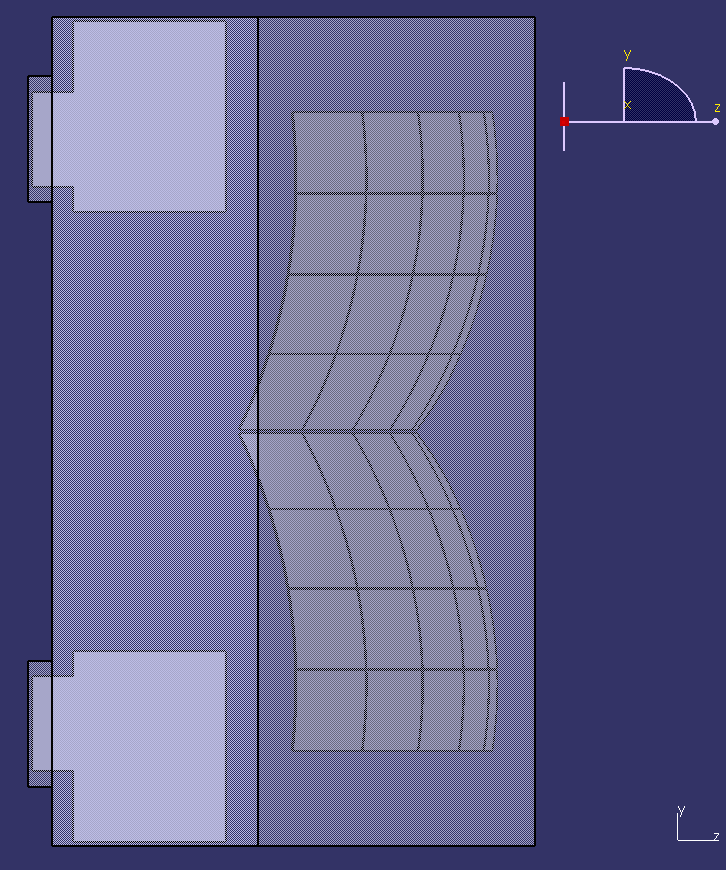
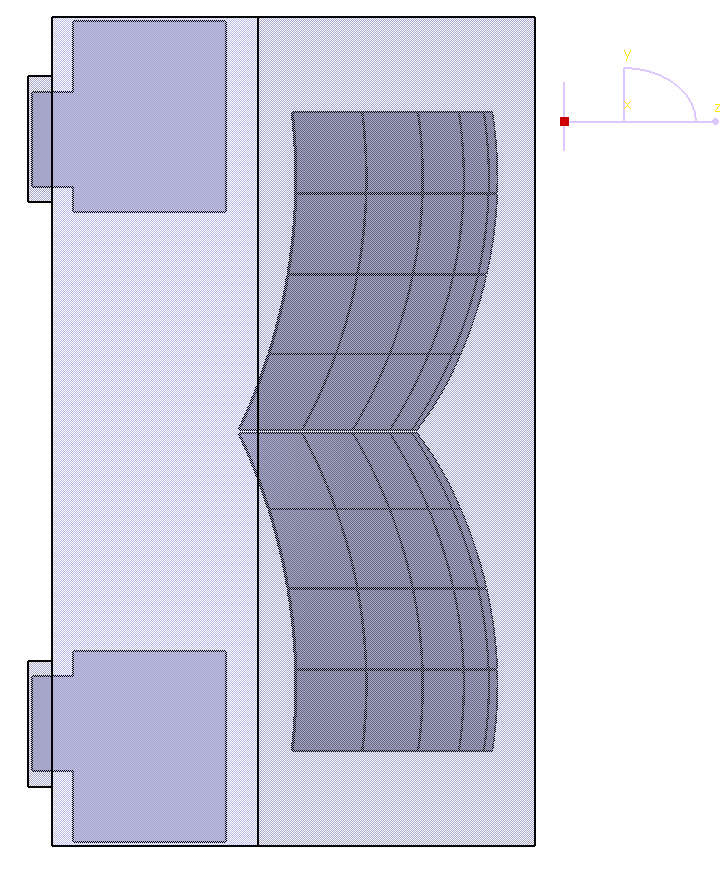
Get rid of dark background in CATIA-figures. Update BREP-CSG-Polygonal comparison. Update geometry section in general.

diff --git a/Disser/tex/23_geometry/2_1_CADvsROOT.tex b/Disser/tex/23_geometry/2_1_CADvsROOT.tex
@@ -12,8 +12,11 @@
 \subsection{Граничное представление BREP}\label{sec:geoCAD}
 
 Граничное представление (Boundary representation, BREP) --- наиболее распространённый способ точного описания геометрии в ЭВМ, используемый геометрическими ядрами всех современных систем автоматизированного проектирования (САПР).
-% Похоже, это первое явление САПР народу в тексте (не во всяких списках типа цели, новизна и проч.)
+% Похоже, это первое явление САПР и CATIA народу в тексте (не во всяких списках типа цели, новизна и проч.)
+Во многих физических лабораториях, включая CERN, GSI и ОИЯИ, в качестве основной САПР используется система CATIA~v5 (Computer-Aided Three-dimensional Interactive Application), разрабатываемая французской фирмой Dassault Systemes.
+
 \textbf{Далее представление геометрической информации в САПР мы будем называть просто BREP, хотя строго говоря это не совсем верно.}
+
 % Ссылка на Голованова должна появиться где-то
 В BREP есть два типа понятий --- геометрические (<<точка>>, <<кривая>>, <<поверхность>>) и топологические (<<вершина>>, <<ребро>>, <<грань>>). <<Точка>> --- это тройка координат в некоторой системе координат. <<Кривая>> --- это уравнение, задающее множество точек, принадлежащих данной кривой. Кривую удобно описать с помощью параметрического уравнения от одной переменной. <<Поверхность>> --- это уравнение, задающее множество точек, принадлежащих данной поверхности. Соответственно, поверхность удобно описать с помощью параметрического уравнения от двух переменных. Топологические сущности задаются на базе геометрических. <<Вершина>> лежит в некоторой геометрической точке. <<Ребро>> лежит на некоторой геометрической кривой и ограничено двумя вершинами. Очевидно, что эти вершины должны принадлежать кривой, то есть и соответствующие геометрические точки должны принадлежать кривой. <<Грань>> лежит на некоторой поверхности и ограничена замкнутым циклом из рёбер. Также очевидно, что эти рёбра должны принадлежать поверхности, как и кривые, на которых они лежат, как и вершины и точки, ограничивающие эти рёбра. Замкнутая оболочка из граней с указанием внешних сторон этих граней ограничивает некоторую область пространства, называемую <<телом>>.
 
@@ -39,7 +42,8 @@
 
 Стоит, однако, отметить, что человек, создающий геометрическую модель в САПР, хотя и может выполнять построения в соответствии с базовыми принципами BREP, чаще всего применяет интуитивно понятные формообразования. Из последовательности этих формообразований система точно формирует BREP модель в памяти ЭВМ, которая также необходима для получения триангулированной геометрии для визуализации на дисплее ЭВМ~(\ref{sec:secGeoPoly}). Есть 4 базовых формообразования и 4 им обратных (с вычитанием) --- <<выдавливание>>, <<вращение>>, <<протягивание>> и <<тело по сечениям>>. Многие другие формообразования, такие как фаски и скругления, разрезы, отверстия, внутри на самом деле являются лишь вариациями перечисленных. Последовательность формообразований, выполненных пользователем для получения итоговой формы, сохраняется в виде дерева построения модели, напоминающего историю построения, но позволяющего навигацию и редактирование. Дерево часто доступно пользователю в основном рабочем окне интерфейса САПР. Однако бывают случаи, когда история построения теряется, например при передаче модели из одной САПР в другую. Таким образом, в результате работы инженера получается модель, описанная с помощью BREP, и во многих случаях имеющая также и дерево построения.
 
-% \todo Пояснить, почему речь о CATIA
+% \todo Пояснить, почему речь о CATIA.
+% Ввёл чуть выше - в начале главы.
 
 В инженерной практике принято проектировать и соответственно строить 3d-модели, объединяя в сборки детали и другие сборки. Отсюда вытекает, что во многих САПР, в том числе в CATIA~v5, существуют стандартные объекты, обозначающие детали и сборки. Например в САПР CATIA~v5 существует отдельный тип документа CATPart для детали и отдельный тип документа CATProduct для сборки. Внутри документа типа CATPart есть минимальный набор обязательных элементов --- 3 стандартные взаимноперпендикулярные плоскости в начале системы координат детали и главное тело детали, по умолчанию называемое PartBody. В документе типа CATProduct присутствует возможность добавлять в качестве дочерних компонентов либо документы CATPart либо другие документы CATProduct. В~\ref{sec:secBuilder} описывается, как соотносятся перечисленные сущности CATIA~v5 с понятиями геометрической подсистемы GEANT/ROOT.
 
@@ -47,6 +51,7 @@
 
 %\todo
 %Описать только нормальное применение BREP, то есть для замкнутых солидов.
+BREP разрабатывался как наиболее общий метод представления геометрии в ЭВМ и не ограничивается описанием твёрдых тел. Отдельные поверхности, например, также являются корректными сущностями.
 
 %Более того, возможна также некоторая корректировка подходов САПР к геометрическому моделированию с целью повышения совместимости с пакетами проведения частиц. \textbf{Один из возможных подходов --- реализация полигонального (см. секцию~\ref{sec:secGeoPoly}) твердотельного моделирования со строгим ограничением замкнутости оболочек, представляющих границы тела.} Однако следует учитывать следующие факты, мешающие движению в данном направлении. Во-первых, САПР --- это в большинстве своём коммерческое программное обеспечение с закрытым исходным кодом, а геометрическое ядро САПР --- базовая составляющая, которую отлаживают десятилетиями. Внесение изменений в столь важную компоненту коммерческого продукта, вероятно, будет проблемным даже при наличии интереса со стороны фирмы-разработчика. Во-вторых, в обеих сферах накоплен огромный массив моделей, применяемых для поддержки изделий на всех этапах жизненного цикла, даже после окончания процесса проектирования. GEANT/ROOT модели могут применяться для выполнения моделирования даже после того, как физическая экспериментальная установка уже собрана, а иногда даже и уже разобрана.
 
@@ -66,6 +71,8 @@
 Метод конечных элементов получил своё название от способа разбиения расчётной области на элементарные блоки --- конечные элементы (КЭ). Строго говоря, КЭ --- это не только геометрическая форма, но и модель аппроксимации решения внутри области, ограниченной этой формой. Существует огромное множество типов КЭ, причём существуют элементы имеющие одинаковую геометрию, но разные математические модели. Расчётная область может быть разбита на элементы различных типов. Исходя из условий решаемой задачи инженер-расчётчик выбирает, какими элементами разбивать расчётную область, а также, обычно, задаёт какие-либо указания модулю разбиения геометрии на сетку в расчётном программном обеспечении. В простом случае расчётной областью является пространство заполненное материалом, т.е. сама деталь, а конечным элементом --- тетраэдр. Модель, в которой деталь представлена множеством КЭ, соответственно называют КЭ-моделью.
 % Вырезан кусок... Ушёл в обмен геометриями
 
+% \todo Netgen
+
 % ================================================================================================================
 %   ____ ____   ____                                     _              
 %  / ___/ ___| / ___|     __ _  ___  ___  _ __ ___   ___| |_ _ __ _   _ 
@@ -80,7 +87,6 @@
 Конструктивная твердотельная геометрия (Constructive Solid Geometry, CSG) --- один из способов описания геометрии в ЭВМ, в котором твёрдое тело (``solid'') представляет собой примитив либо результат Булевой операции над другими твёрдыми телами.
 
 Изначально CSG использовался как основной способ представления геометрии в САПР, но по мере развития последних от CSG перешли к BREP. При этом, всё же, во многих САПР осталась возможность создавать CSG геометрию. CSG до сих пор активно применяется в некоторых узкоспециализированных областях --- например для описания экспериментальных установок для выполнения моделирования взаимодействия частиц с материалом (см.~\ref{sec:secGeoROOT}), для описания ячейки периодичности композитных материалов и др.
-% \todo Netgen
 
 В качестве строительных блоков в CSG используются примитивы из списка реализованных в системе. Список примитивов обычно включает в себя как относительно простые примитивы типа параллелипипеда (box), сегмента цилиндра (tubs), сегмента конуса (cons), так и достаточно сложные, типа эллипсоида, параболоида, скрученных (twisted) примитивов.
 Форма может быть описана либо как примитив, либо как результат Булевой операции над примитивами или другими Булевыми операциями.
@@ -130,7 +136,7 @@
 
 Большинство приложений трёхмерной графики, в том числе САПР, при построении объёмных сцен придерживаются определенной последовательности действий, в совокупности составляющей так называемый ЗD-конвейер. В качестве входных данных 3D-конвейер принимает массив треугольников, а итогом работы ЗD-конвейера является отрисовка (рендеринг) результирующего изображения на дисплее компьютера. Графический адаптер реализует аппаратное ускорение 3D-конвейера.
 
-\todo Чем детальней (чем больше полиногов), тем сложнее крутить геомерию. И фастрад (geant) тоже дольше будет считать.
+Несмотря на то что графический адаптер оптимизирован для обработки треугольников, существует ограничение на размер модели, определяемой доступной памятью (как ЦПУ, так и ГПУ). Также объём геометрической модели определяет время её обработки, например, выполнения матричных преобразований при изменении ракурса камеры. Это определяет частоту обновления изображения на дисплее, падение которой ниже некоторого уровня (\todo скажем, 20) сильно усложняет работу. Аналогично, увеличение количества элементов в КЭ-модели приводит к увеличению времени расчётов МКЭ.
 
 %OpenGL (Open Graphics Library) --- спецификация, определяющая платформонезависимый (независимый от языка программирования) программный интерфейс для написания приложений, использующих двумерную и трёхмерную компьютерную графику. OpenGL де-факто является стандартом для всех трёхмерных приложений, его конвейер представлен на~\figref{fig:OGLpipeline}.
 
@@ -141,6 +147,44 @@
 %\end{figure}
 
 В промышленном геометрическом моделировании триангулированная геометрия применяется не только для визуализации. Например в стереолитографии, и вообще прототипировании, получил распространение формат обмена триангулированной геометрией STL, представляющий собой текстовый файл, в котором перечислены треугольники как группы по три вершины, а вершина задаётся тройкой координат (см. секцию~\ref{sec:secSTL}).
+
+% ================================================================================================================
+%   ____                                 _                 
+%  / ___|___  _ __ ___  _ __   __ _ _ __(_)___  ___  _ __  
+% | |   / _ \| '_ ` _ \| '_ \ / _` | '__| / __|/ _ \| '_ \ 
+% | |__| (_) | | | | | | |_) | (_| | |  | \__ \ (_) | | | |
+%  \____\___/|_| |_| |_| .__/ \__,_|_|  |_|___/\___/|_| |_|
+%                      |_|                                 
+% ================================================================================================================
+
+\section{Сравнение CSG, BREP и полигональных моделей}
+
+На~\figref{DiffGeoRepr} показана одна и та же геометрическая форма, описанная в ЭВМ с помощью различных методов представления геометрии.
+
+На верхнем левом рисунке показаны отдельные примитивы до выполнения Булевой операции. Можно видеть кривые пересечения примитивов, однако фактически уравнения этих кривых на пересечении конкретных уравнений поверхностей либо не рассчитаны вообще, либо расчитаны системой моделирования неявно исключительно для более красивой визуализации.
+На верхнем правом рисунке показано твёрдое тело после выполнения Булевой операции. Здесь рёбра на пересечениях уже явно рассчитаны.
+На нижнем левом рисунке показана модель после выполнения Булевой операции, триангулированная системой моделирования для визуализации, в таком режиме, когда показываются только рёбра треугольников. Отметим, что именно в такой форме, но с закрашенными треугольниками, все модели, независимо от внутреннего описания --- BREP, CSG или какое-либо другое --- визуализируются на дисплее ЭВМ. За счёт того, что угол между рёбрами треугольников, аппроксимирующими гладкое ребро исходного тела, очень мал, визуально создаётся ощущение плавных кривых.
+На нижнем правом рисунке показана КЭ-модель, полученная разбиением исходной BREP модели на тетраэдральные конечные элементы с помощью пакета Netgen~(\cite{}). Видны только треугольники на поверхности, но на самом деле на тетраэдры разбито всё твёрдое тело.
+Стоит отметить отличие триангуляции поверхностей для КЭ-модели и модели для визуализации. Это объясняется разными критериями алгоритма триангуляции в силу разных целей моделей.
+
+\begin{figure}[H]
+\begin{minipage}[b]{0.495\textwidth}
+\includegraphics[width=1.0\textwidth]{pictures/Separate_primitives.png}
+\end{minipage}
+\hspace{0.01\textwidth}
+\begin{minipage}[b]{0.495\textwidth}
+\includegraphics[width=1.0\textwidth]{pictures/BREP_2.png}
+\end{minipage}
+\begin{minipage}[b]{0.495\textwidth}
+\includegraphics[width=1.0\textwidth]{pictures/Triangles.png}
+\end{minipage}
+\hspace{0.01\textwidth}
+\begin{minipage}[b]{0.495\textwidth}
+\includegraphics[width=1.0\textwidth]{pictures/FEM_rough.png}
+\end{minipage}
+\caption{Одна и та же геометрическая форма, описанная различными представлениями.}
+\label{fig:DiffGeoRepr}
+\end{figure}
 
 % ================================================================================================================
 %   ____                 __                            _       
@@ -155,16 +199,20 @@
 
 Существует огромное множество форматов для обмена геометрией между различными программными продуктами. Следует различать геометрическое представление и формат, в котором данные записаны в файл. Существуют универсальные форматы, которые позволяют записывать в файл геометрию, представленную разными способами (например, BREP и триангулированная \todo пример), но в большинстве случаев один формат подразумевает один способ представления геометрии. Данные могут быть записаны в файл как в виде текста, так и в бинарном виде. Проприетарные форматы в большинстве своём не имеют открытой спецификации, поэтому файлы этого формата бинарные, создаются и читаются ограниченным списком программ, в который, в первую очередь, входят продукты от фирм, являющихся авторами этих форматов. Также иногда эти фирмы дают возможность купить лицензию на модуль импорта/экспорта того или иного формата для реализации его поддержки в стороннем ПО.
 
-Рассмотрим несколько популярных форматов для хранения и передачи геометрической информации, не подразумеваемой перевод между различными представлениями.
+Рассмотрим несколько популярных форматов для хранения и передачи геометрической информации, не подразумевающей перевод между различными представлениями.
 
 \subsubsection{STEP}\label{sec:secSTEP}
 
-В инженерной практике для обмена информацией об изделии, в том числе геометрическими моделями, наибольшее распространение получил независимый стандарт ISO-10303 STEP (STandard for Exchange of Product model data). В наши дни практически любая САПР имеет возможность импорта и экспорта STEP.
-Данный стандарт предоставляет широкие возможности по обмену геометрией, однако его особенностью является наличие большого количества инструментов для описания геометрии, представленной в виде BREP.
-% \todo расширить, пояснить
-% Убивается дерево
+В инженерной практике для обмена информацией об изделии, в том числе геометрическими моделями, наибольшее распространение получил независимый стандарт ISO-10303 STEP (STandard for Exchange of Product model data).
+%В наши дни практически любая САПР имеет возможность импорта и экспорта STEP.
+%Данный стандарт предоставляет широкие возможности по обмену информацией об изделии.
+Особенностью данного стандарта является наличие большого количества инструментов для описания BREP-геометрии. В то же время, следует отметить, что несмотря на то, что практические все современные САПР используют идентичные подходы к моделированию и имеют поддержку данного формата, STEP файлы не хранят дерево построения модели. По этой причине, даже если экспортировать STEP-файл из некоторой системы и импортировать обратно, то дерево построения, то есть последовательность формообразований, утеряется.
 
-Обменные файлы STEP являются текстовыми. С одной стороны, это значительно упрощает разработку модулей для их импорта и экспорта. С другой стороны, это приводит к тому, что размер таких файлов становится достаточно большим для крупных моделей, а следовательно и растёт их время обработки.
+Обменные файлы STEP являются текстовыми. С одной стороны, это значительно упрощает разработку модулей для их импорта и экспорта, но с другой стороны, это приводит к тому, что для крупных моделей размер STEP-файлов становится достаточно большим, а следовательно и растёт время их обработки.
+
+\subsubsection{IGES}\label{sec:secIGES}
+
+IGES (Initial Graphics Exchange Specification) --- независимый стандартизованный формат для обмена информацией между САПР, включая геометрические модели. В настоящее время многие САПР имеют поддержку IGES, однако данный формат можно рассматривать как устаревший, практически вытесненный стандартом STEP.
 
 \subsubsection{STL}\label{sec:secSTL}
 
@@ -178,15 +226,22 @@ CGR (Catia Graphical Representation) --- проприетарный формат
 Позволяет одновременно, в одном файле, хранить несколько моделей, что широко применяется для хранения нескольких уровней детализации.
 % \todo проверить
 
+\subsubsection{3DXML}\label{sec:sec3dXML}
+
+3DXML --- проприетарный формат Dassault Systemes, используемый для хранения триангулированной модели, готовой для быстрой визуализации на дисплее.
+Имеет закрытую спецификацию. Файл формата 3DXML представляет собой архив с одним или несколькими геометрическими моделями и дополнительной информацией.
+
+3DXML player --- это бесплатный продукт Dassault Systemes, позволяющий просматривать модели в файлах 3DXML.
+
 \subsubsection{OBJ}\label{sec:secOBJ}
 
 OBJ --- очень простой и открытый текстовый формат для обмена полигональными моделями. В файл OBJ записаны координаты вершин, списки индексов вершин каждого полигона и некоторые вспомогательные данные, типа текстурных координат и др.
 
 \subsubsection{VRML, WRL, X3D}\label{sec:secVRML}
 
-VRML (Virtual Reality Modeling Language) \\
-WRL --- расширение файла \\
-Наследник --- X3D.
+VRML (Virtual Reality Modeling Language). Файлы формата VRML имеют расширение wrl.
+
+X3D --- стандартизованный (ISO/IEC 19775/19776/19777) формат, являющийся наследником VRML.
 
 \subsubsection{COLLADA}\label{sec:secCOLLADA}
 
@@ -252,12 +307,14 @@ WRL --- расширение файла \\
 
 \subsubsection{Конвертация Polygonal в BREP}\label{sec:secPolyToBREP}
 
+Если полиногами описана замкнутая оболочка, то представляется возможным объявить эту оболочку границой твёрдого тела, таким образом переведя без потерь полигональное описание в BREP, чтобы в дальнейшем работать средствами твердотельного моделирования. Если до цельности оболочки нехватает некоторого количества полигонов, то система обычно позволяет автоматически заполнить дыры плоскими фастеками, чтобы дальше можно было получить твёрдое тело.
+
 % \todo Разобраться
+Данная задача возникает при обработке результатов 3d-сканирования. 3d-сканеры выдают облако точек и первым этапом выполняется построение полиногальной модели по точкам. Затем обычно выполняется автоматизированное дополнение полинональной модели до замкнутой оболочки для получения твёрдого тела.
 
-Данная задача возникает при обработке результатов 3d-сканирования.
-Проблема имеет некоторое сходство с конвертацией CSG в BREP.
+% Проблема имеет некоторое сходство с конвертацией CSG в BREP.
 
-Концентрируемся только на BREP, в котором описываются твёрдые тела, ограниченные замнутой оболочкой из поверхностей, либо большие непрерывные поверхности.
+\textbf{Концентрируемся только на BREP, в котором описываются твёрдые тела, ограниченные замнутой оболочкой из поверхностей, либо большие непрерывные поверхности.}
 
 
 % ================================================================================================================
@@ -273,9 +330,8 @@ WRL --- расширение файла \\
 
 Существует несколько способов задать геометрию для VMC-связки GEANT+ROOT --- с помощью текста (geo), с помощью XML в файле формата GDML, в виде макроса на языке ``C'', интерпретируемого системой ROOT и формирующего выходной файл (обычно --- .root, но возможно и .gdml). Также возможно использование какого-либо программного инструмента, некоторые из которых описаны в секции~\ref{sec:ExistSols}.
 
-\todo
-Примитивы в GEANT4 и ROOT сопадают, но не полностью.
-Unified Solids
+% \todo переформулировать
+Список реализованных в GEANT4 и ROOT примитивов совпадает практически полностью. В настоящее время в рамках проекта AIDA (\cite{}) в ЦЕРН ведётся разработка пакета Unified Solids (\cite{}), ставящего своей задачей получить единое описание геометрии в пакетах GEANT4 и ROOT.
 
 Для описания геометрических форм в пакетах GEANT/ROOT применяется CSG (см. секцию~\ref{sec:secGeoCSG}).
 Алгоритмы проведения частиц, реализованные в GEANT/ROOT, оптимизированы для соответствующего описания геометрии, применяемого в этих пакетах.
@@ -305,7 +361,8 @@ Unified Solids
 % Replica
 \subsection{Division/Replica}
 
-Одна из продвинутых возможностей геометрической подсистемы GEANT/ROOT --- это деление объёмов. В GEANT4 эта возможность называется replica, а в ROOT --- division. Суть заключается в том, что допускается деление некоторого объёма путём разрезания через равные промежутки вдоль одной из четырёх осей --- X, Y, Z и $\phi$, где $\phi$ --- круговое направление. В результате деления получается набор одинаковых под-объёмов --- долек, которые можно рассматривать как независимые вхождения одного объёма и позиционировать внутри другие объёмы. Отличие дольки от обычного объёма заключается в том, что для долек оптимизирована реализация проведения частиц. (\todo сформулировать лучше) Деление возможно только для ограниченного числа форм, таких, что все доли имеют одинаковую форму. Box --- в любом из трёх линейных направлений X, Y или Z. Tubs --- вдоль оси цилиндра, то есть вдоль линейной оси Z, или вдоль круговой оси $\phi$. Дальше продолжать\todo
+Одна из продвинутых возможностей геометрической подсистемы GEANT/ROOT --- это деление объёмов. В GEANT4 эта возможность называется replica, а в ROOT --- division. Суть заключается в том, что допускается деление некоторого объёма путём разрезания через равные промежутки вдоль одной из четырёх осей --- X, Y, Z и $\phi$, где $\phi$ --- круговое направление. В результате деления получается набор одинаковых под-объёмов --- долек, которые можно рассматривать как независимые вхождения одного объёма и позиционировать внутри другие объёмы. Отличие дольки от обычного объёма заключается в том, что для долек оптимизирована реализация проведения частиц. (\todo сформулировать лучше) Деление возможно только для ограниченного числа форм, таких, что все доли имеют одинаковую форму. Box --- в любом из трёх линейных направлений X, Y или Z. Tubs --- вдоль оси цилиндра, то есть вдоль линейной оси Z, или вдоль круговой оси $\phi$.
+%Дальше продолжать\todo
 
 % ================================================================================================================
 %   ____ ____  __  __ _     
@@ -318,8 +375,8 @@ Unified Solids
 
 \subsection{Geometry Description Markup Language (GDML)}\label{sec:secGDML}
 
-\todo
-В дополнение к форматам, перечисленным в секции~\ref{sec:secGeoFormats}.
+% \todo
+В дополнение к форматам, перечисленным в секции~\ref{sec:secGeoFormats}, рассмотрим более подробно формат GDML, применяемый для обмена GEANT/ROOT-геометрии в ``CATIA-GDML geometry builder''.
 
 %Ссылка на сайт
 Язык разметки GDML разработан специально для обмена моделями представленными с помощью CSG с иерархией объёмов. GDML --- это XML-подобный язык. Файл на GDML имеет следующую структуру. Тэг верхнего уровня <gdml>, в нём 5 разделов:
@@ -377,6 +434,8 @@ Unified Solids
 
 Отличительной особенностью сферы физики частиц является то, что в процессе проектирования установки помимо типовых расчётов требуется выполнение моделирования прохождения частиц через материал, которое чаще всего выполняется физиками, формулирующими требования к конструкции установки, но в общей массе не владеющими САПР. Такое моделирование достаточно специфично, но оно также выполняется над геометрической моделью, в идеальной ситуации --- максимально подробной, совпадающей с полной детальной моделью, полученной инженерами-конструкторами с помощью САПР. Также стоит отметить, что процесс конструирования, в том числе получения инженерной геометрической модели, и процесс моделирования физики не имеют чётко определённого порядка и тесно между собой переплетены. В результате обоих процессов уточняются геометрические параметры деталей, компоновка узлов, применяемые материалы, и т.д. Это приводит к необходимости постоянного обмена геометрической информацией.
 
+\textbf{Повторное обоснование использование CATIA}
+
 Как было сказано выше, инженеры для получения геометрической модели используют САПР. Во многих физических лабораториях, включая CERN, GSI и ОИЯИ, применяется САПР CATIA~v5. Моделирование взаимодействия частиц с материалом широко применяет метод Монте-Карло (MC) и реализовано в соответствующих программных пакетах, многие из которых основаны на фреймворках GEANT4 или GEANT3, разработанных в CERN. Также часто применяют поход Virtual Monte-Carlo (VMC), в котором все процедуры, связанные с геометрией, поручены системе ROOT. Все перечисленные физические пакеты (GEANT3, GEANT4, ROOT, далее коротко GEANT/ROOT) используют представление геометрии, принципиально отличающееся от BREP. Модели для GEANT/ROOT часто называют MC-моделями. Это отличие состоит из двух пунктов, подробно описанных в~\ref{sec:secROOTvsCAD}, и приводит к невозможности прямого обмена геометрическими моделями между физиками и инженерами.
 
 Главным фактором против прямой конвертации в том или ином направлении является то, что она имеет малую практическую пользу. Одна и та же геометрическая модель с точки зрения разных задач может быть одновременно оптимальна и, наоборот, избыточна или недостаточна. Это просто понять на следующем примере. С точки зрения инженерного проекта массив болтов, вкрученных в корпус, представляет собой важную информацию. В чертежах и другой конструкторской документации ошибка в точном положении отверстий, их диаметре, типе резьбы болтов и т.д. может привести к невозможности собрать продукт после изготовления отдельных компонентов. В то же время, в САПР принято не хранить, и следовательно не визуализировать, витки резьбы с целью снижения нагрузки на графический адаптер ЭВМ. Это значит, что резьба присутствует только формально, в документации, а геометрическая модель имеет лишь условное обозначение резьбы в соответствующем месте. С точки зрения моделирования прохождения частиц через материал в зависимости от расположения в общей установке подобные подробности могут оказаться как критическими, так и наоборот излишними и вызывающими значительное увеличение времени выполнения моделирования.
@@ -384,40 +443,3 @@ Unified Solids
 %Так, например, резьба болта, находящегося близко к области, где проходит пучок, может оказать влияние на функционирование всей установки, а та же резьба где-то за пределами геометрического аксептанса не даст ровно никого эффекта может быть упрощена до цилиндра. Более того, без ущерба реалистичности моделирования упрощения могут носить неожиданно масштабный характер. Например, где-то рассматриваемый массив болтов может быть вообще проигнорирован, а пространство в отверстиях заполнено материалом корпуса.
 
 Таким образом с целью упрощения взаимодействия физиков и инженеров было принятно решение не пытаться разработать конвертеры или какие-либо новые универсальные способы представления геометрии, а сосредоточиться на облегчении существующей процедуры за счёт плавной корректировки привычных методов и предоставления новых инструментов как физикам, так и инженерам. ``CATIA-GDML geometry builder'' --- это как раз набор таких инструментов. Он описан в~\ref{sec:secBuilder} вместе с предлагаемой организацией рабочего процесса и реальным случаем использования для проектирования детектора RICH эксперимента CBM.
-
-
-
-
-
-\section{---------------------------------------}
-
-%\todo Картинка. Возможно, имеется смысл показать одну и ту же делать в разных геом. представлениях.
-
-(а) Отдельные примитивы. Пересечения между примитивами не посчитаны. Визуально они есть за счёт того, что какие-то треугольники ближе, какие-то дальше.
-(б) Посчитанный результат Булевой операции. Визуально совпадает с BREP.
-(в) КЭ-сетка. Глазами видны только треугольники на поверхности. На самом деле на тетраэдры разбито всё твёрдое тело.
-(г) Триангулированная геометрия для визуализация. Показаны только рёбра треугольников. На самом деле, когда мы смотрим на BREP или СSG мы видим именно эту триангулированную геометрию, но только с заливкой фасеток. Из-за того что между маленикими рёбрами очень малые углы создаётся ощущение плавных рёбер. Стоит отметить отличие триангуляции поверхностей для КЭ-модели и модели для визуализации. Это объясняется разными критериями алгоритма триангуляции в силу разных задач.
-
-\begin{figure}[H]
-\begin{minipage}[b]{0.495\textwidth}
-\includegraphics[width=1.0\textwidth]{pictures/Separate_primitives.png}
-\end{minipage}
-\hspace{0.01\textwidth}
-\begin{minipage}[b]{0.495\textwidth}
-\includegraphics[width=1.0\textwidth]{pictures/BREP_2.png}
-\end{minipage}
-\caption{}
-\label{fig:DiffGeoRepr1}
-\end{figure}
-
-\begin{figure}[H]
-\begin{minipage}[b]{0.495\textwidth}
-\includegraphics[width=1.0\textwidth]{pictures/Triangles.png}
-\end{minipage}
-\hspace{0.01\textwidth}
-\begin{minipage}[b]{0.495\textwidth}
-\includegraphics[width=1.0\textwidth]{pictures/FEM_rough.png}
-\end{minipage}
-\caption{}
-\label{fig:DiffGeoRepr2}
-\end{figure}

diff --git a/Disser/tex/0_intro/Goals.tex b/Disser/tex/0_intro/Goals.tex
@@ -1,7 +1,7 @@
 \section*{Цели:}
 
 \begin{itemize}
-\item{разработать инструментарий для облегчения создания детальных геометрических моделей, предназначенных для таких сред Монте-Карло моделирования прохождения частиц через вещество, как Geant4 и ROOT, а также для обмена геометрической информацией между этими средами и САПР CATIA;}
+\item{разработать инструментарий для облегчения создания детальных геометрических моделей, предназначенных для таких сред Монте-Карло моделирования прохождения частиц через вещество, как Geant4 и ROOT, а также для обмена геометрической информацией между этими средами и САПР CATIA~v5;}
 \item{создать гибкое и точное описание детектора CBM RICH в среде CbmRoot и осуществить на основе этого описания оптимизацию конструкции и компоновки данного детектора;}
 \item{создать ПО для испытания прототипа системы считывания и сбора данных детектора CBM RICH в составе полнофункционального прототипа указанного детектора на пучковых тестах;}
 \item{провести исследование свойств прототипа системы считывания и сбора данных детектора CBM RICH на основе результатов пучковых тестов и измерений на лабораторном стенде.}

diff --git a/Disser/tex/0_intro/StructureAndContent.tex b/Disser/tex/0_intro/StructureAndContent.tex
@@ -14,7 +14,7 @@
 Во второй главе
 обсуждаются некоторые наиболее распространённые способы представления геометрических моделей в ЭВМ, используемые в различном ПО для решения различных вычислительных задач;
 рассматриваются предпосылки и принципы создания инструментария, так называемого ``CATIA-GDML geometry builder'', для обмена геометрической информацией между САПР и средами Монте Карло моделирования прохождения частиц через вещество (Geant4/ROOT) и облегчения создания детальных геометрических моделей для Geant4/ROOT;
-обсуждаются реализация отображения примитивов и иерархии объемов Geant4/ROOT на дерево построений в среде CATIA и набор созданных макропрограмм, входящих в ``CATIA-GDML geometry builder'';
+обсуждаются реализация отображения примитивов и иерархии объемов Geant4/ROOT на дерево построений в среде CATIA~v5 и набор созданных макропрограмм, входящих в ``CATIA-GDML geometry builder'';
 описывается методика применения ``CATIA-GDML geometry builder'' и приводятся некоторые примеры.
 
 Третья глава

diff --git a/Disser/tex/0_intro/Science.tex b/Disser/tex/0_intro/Science.tex
@@ -2,7 +2,7 @@
 
 \begin{enumerate}
 \item Разработана схема отображения иерархии геометрии, используемой в моделировании транспорта частиц методом Монте Карло (МК), на дерево построений САПР CATIA~v5.
-\item В среде CATIA создан набор шаблонов для примитивов и сущностей конструктивной твердотельной геометрии, принятой в системах МК моделирования детекторов.
+\item В среде CATIA~v5 создан набор шаблонов для примитивов и сущностей конструктивной твердотельной геометрии, принятой в системах МК моделирования детекторов.
 \item Создан набор инструментов для полуавтоматического построения детальной МК геометрии на основе САПР модели и быстрого обмена геометрией между САПР CATIA~v5 и пакетами МК моделирования GEANT и ROOT.
 \item Выполнены беспрецедентно точные параметризованные описания ряда приборов и детекторов в средах МК моделирования.
 \item На основе детального параметризованного описания геометрии CBM~RICH выполнена оптимизация компоновки детектора. 

diff --git a/Disser/tex/23_geometry/2_2_ExistingSolutions.tex b/Disser/tex/23_geometry/2_2_ExistingSolutions.tex
@@ -2,6 +2,24 @@
 
 \subsection{FASTRAD}\label{sec:secFastrad}
 
+
+
 \subsection{SimpleGeo}\label{sec:secSimpleGeo}
 
+
+
 \subsection{CADtoROOT interface}\label{sec:secCinzia}
+
+% http://iopscience.iop.org/article/10.1088/1742-6596/523/1/012017/pdf
+
+% C Luzzi and F Carminati 2014 J. Phys.: Conf. Ser. 523 012017
+
+Данный интерфейс является частью ROOT и основан на Open CASCADE Technology (\cite{}) --- открытой платформе для разработки 3d-приложений. Он позволяет выполнить анализ CSG-описания установки в менеджере геометрии ROOT и экспортировать его BREP-описание в STEP файл.
+
+\subsection{CAD converter}\label{sec:secTobias}
+
+Первый этап --- импорт STEP или IGES средствами OpenCASCADE.
+Затем выполняется анализ BREP форм и выделение примитивов.
+После этого определяются параметры примитивов и матрица позиционирования.
+Последним этапом выполняется экспорт в ROOT-файл.
+Нераспознанные формы экспортируются в другой файл.
